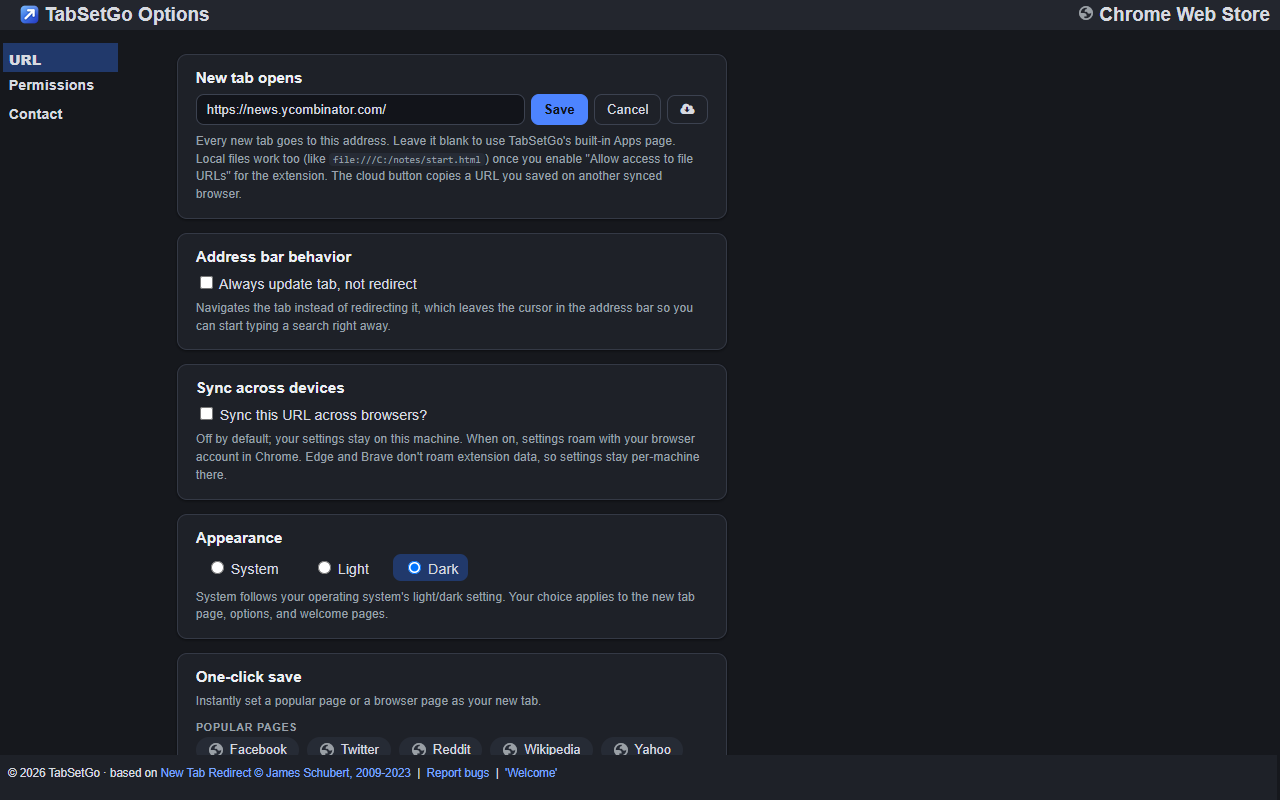
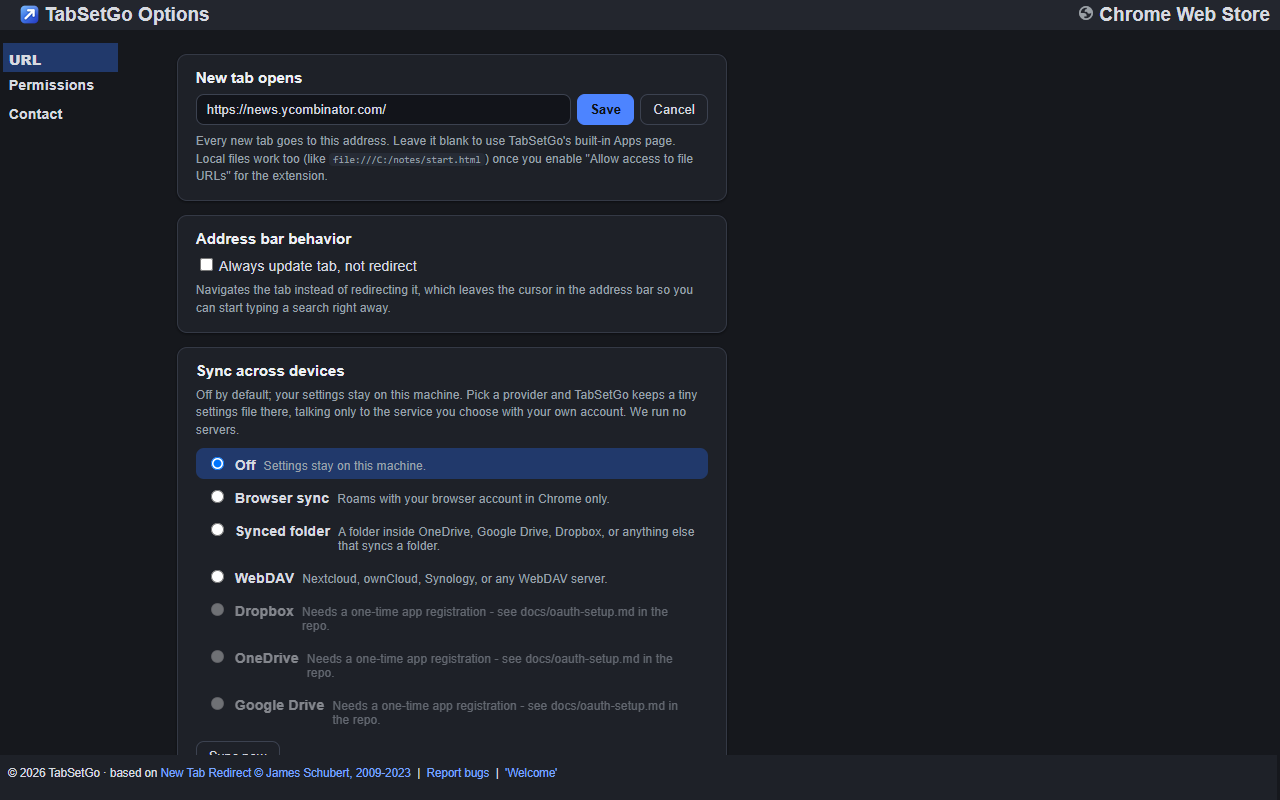
Cut 4.1.0: universal sync wrap (privacy, listing, docs, version) (#15)
PRIVACY.md now tells the provider story (off by default; direct-to-
your-provider when connected; tokens local; still no servers).
Store listing gains the sync paragraph, corrected host-permission
justification (<all_urls>) and the alarms permission. README documents
the provider lineup. Changelog + changes.txt cut 4.1.0 including the
invalid-host-permissions fix. Store screenshots regenerated (options
now shows the provider picker). Submission zip rebuilt and verified
(90 entries, all js/sync modules included).

Note: 4.1.0 uploads to the stores only after the 4.0.0 listings clear
review; cloud providers activate when the console registrations in
docs/oauth-setup.md are completed.

Changed region(s): [[0.1562, 0.2188, 0.5625, 0.7812], [0.1562, 0.8125, 0.5312, 0.9688], [0.4062, 0.0938, 0.5625, 0.1562]]

diff --git a/PRIVACY.md b/PRIVACY.md
@@ -5,12 +5,16 @@ TabSetGo does not collect, transmit, sell, or share any data. Period.
 - **What's stored:** your redirect URL and preferences (address bar behavior,
   sync opt-in, theme). They live in your browser's extension storage
   (`chrome.storage.local`) on your machine.
-- **Sync:** if you turn on "Sync across devices," the same settings are also
-  written to `chrome.storage.sync`, which your browser may roam through your
-  own browser account (Google account in Chrome). That data goes through your
-  browser vendor's sync service, not through us — we run no servers.
-- **Network:** the extension makes no external requests and contains no
-  analytics, telemetry, ads, or remote code.
+- **Sync (optional, off by default):** if you pick a sync provider, the same
+  settings are written to the place you chose — your browser account (Browser
+  sync), a folder you picked, your own WebDAV server, or your own Dropbox /
+  OneDrive / Google Drive app storage. TabSetGo talks directly to the
+  provider you selected using your own account; we run no servers and see
+  nothing. Sign-in tokens for cloud providers are stored in your browser's
+  extension storage on your machine.
+- **Network:** with sync off (the default), the extension makes no external
+  requests. With a cloud provider connected, requests go only to that
+  provider's API. No analytics, telemetry, ads, or remote code, ever.
 - **Permissions:** used solely to perform the redirect and render the optional
   built-in Apps page (favicons, top sites, bookmarks bar) — each optional
   permission is off until you enable it in options and is explained there.
@@ -18,4 +22,4 @@ TabSetGo does not collect, transmit, sell, or share any data. Period.
 Questions or concerns: open an issue at
 https://github.com/bilbospocketses/TabSetGo/issues
 
-_Last updated: 2026-07-25_
+_Last updated: 2026-07-25 (v4.1.0: provider-based sync)_

diff --git a/docs/store-listing.md b/docs/store-listing.md
@@ -31,6 +31,12 @@ zip to both stores.
   > silently restores it from your synced copy instead of forgetting your
   > URL. Cross-device sync of your settings is strictly opt-in.
   >
+  > And sync works in every Chromium browser — not just Chrome. Pick your
+  > transport: your browser account, a synced folder (OneDrive, Google Drive
+  > for Desktop, Dropbox, Syncthing), your own WebDAV server (Nextcloud and
+  > friends), or connect Dropbox, OneDrive, or Google Drive directly. You can
+  > also download your settings as a file and load them anywhere.
+  >
   > TabSetGo is free and open source (MIT):
   > https://github.com/bilbospocketses/TabSetGo
   > It is a maintained hard fork of "New Tab Redirect" by Jim Schubert, with
@@ -58,9 +64,13 @@ zip to both stores.
   - `storage` — save the redirect URL and preferences.
   - `favicon` — render site icons for bookmarks/top sites on the built-in
     Apps page and options quick-links.
-  - Host permissions (`*://*`, `file://`) — required for the favicon API to
-    resolve icons for arbitrary user bookmarks, and to allow redirecting new
-    tabs to any user-chosen URL including local files.
+  - Host permissions (`<all_urls>`) — required for the favicon API to
+    resolve icons for arbitrary user bookmarks, to allow redirecting new
+    tabs to any user-chosen URL including local files, and — only when the
+    user opts into cloud sync — to talk directly to the provider they chose
+    (their own WebDAV server or Dropbox/Microsoft/Google APIs).
+  - `alarms` — periodic background sync pulls (15-minute interval) when a
+    sync provider is enabled.
   - Optional `tabs` / `topSites` / `management` / `bookmarks` — power the
     built-in Apps page features; requested at runtime only if the user
     enables those features, deniable at any time in options.

diff --git a/README.md b/README.md
@@ -23,10 +23,23 @@ Sets a custom URL to load in new tabs. Choose from:
 * Light and dark themes — follows your OS by default, with a System / Light /
   Dark choice in options, applied across all pages with no white flash
 
-Settings sync across machines is **opt-in** (options page → "Sync this URL
-across browsers?"). It rides your browser's account sync, so it works in
-Chrome when you're signed in with sync on; Edge and Brave don't roam extension
-data, so settings stay per-machine there.
+Settings sync is **opt-in** and works in every Chromium browser — not just
+Chrome. Pick a provider in options:
+
+* **Browser sync** — the classic `chrome.storage.sync`; roams in Chrome only
+* **Synced folder** — a folder inside OneDrive, Google Drive for Desktop,
+  Dropbox, Syncthing, or anything else that syncs a folder (unavailable where
+  the File System Access API is disabled, e.g. Brave)
+* **WebDAV** — Nextcloud, ownCloud, Synology, or any WebDAV server, with an
+  app password
+* **Dropbox / OneDrive / Google Drive** — direct cloud sync to an app-scoped
+  folder in your own account (each needs a one-time app registration — see
+  [docs/oauth-setup.md](docs/oauth-setup.md))
+
+Plus settings **export/import** as a plain JSON file. Whatever you pick,
+`storage.local` stays the source of truth and new tabs never wait on the
+network; merges are per-key last-writer-wins. No TabSetGo servers are
+involved anywhere — see [PRIVACY.md](PRIVACY.md).
 
 **Important:** this replaces new tabs only, not your homepage. If your
 homepage is set to the New Tab page, there may be odd consequences.

diff --git a/CHANGELOG.md b/CHANGELOG.md
@@ -9,6 +9,36 @@ Historical release notes prior to this file live in [changes.txt](changes.txt).
 
 ## [Unreleased]
 
+## [4.1.0] - 2026-07-25
+
+### Added
+
+- Universal settings sync across all Chromium browsers via pluggable
+  providers: Browser sync (Chrome-only roaming, as before), a synced local
+  folder (rides the OneDrive / Google Drive for Desktop / Dropbox / Syncthing
+  desktop clients), WebDAV (Nextcloud, ownCloud, Synology, or any server),
+  plus Dropbox, OneDrive, and Google Drive cloud providers (these activate
+  once their one-time app registrations in `docs/oauth-setup.md` are
+  completed). Per-key last-writer-wins merge; `storage.local` stays
+  authoritative and new tabs never wait on the network.
+- Settings export/import as a JSON file — imports deliberately win over
+  synced values everywhere.
+
+### Changed
+
+- The sync checkbox became a provider picker with per-provider status,
+  connect flows, and a Sync now button. The synced-folder row self-disables
+  with an explanation (and citations) in browsers that remove the File
+  System Access API, such as Brave.
+
+### Fixed
+
+- All three host permissions shipped since the MV3 migration
+  (`*://*`, `file://`, `file:///`) were invalid match patterns that Chrome
+  silently ignored, leaving the extension with no host access — which broke
+  favicon rendering on the quick-save chips and any cross-origin fetch. Now
+  `<all_urls>`.
+
 ## [4.0.0] - 2026-07-25
 
 ### Added
